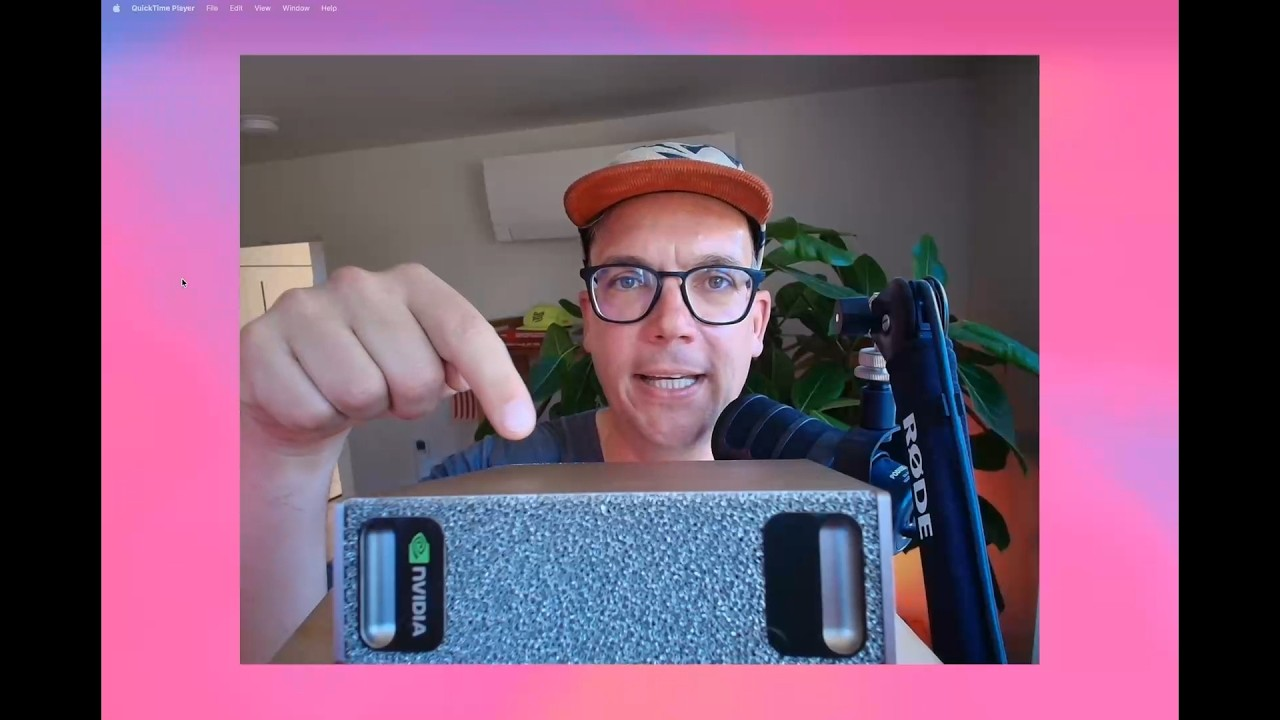
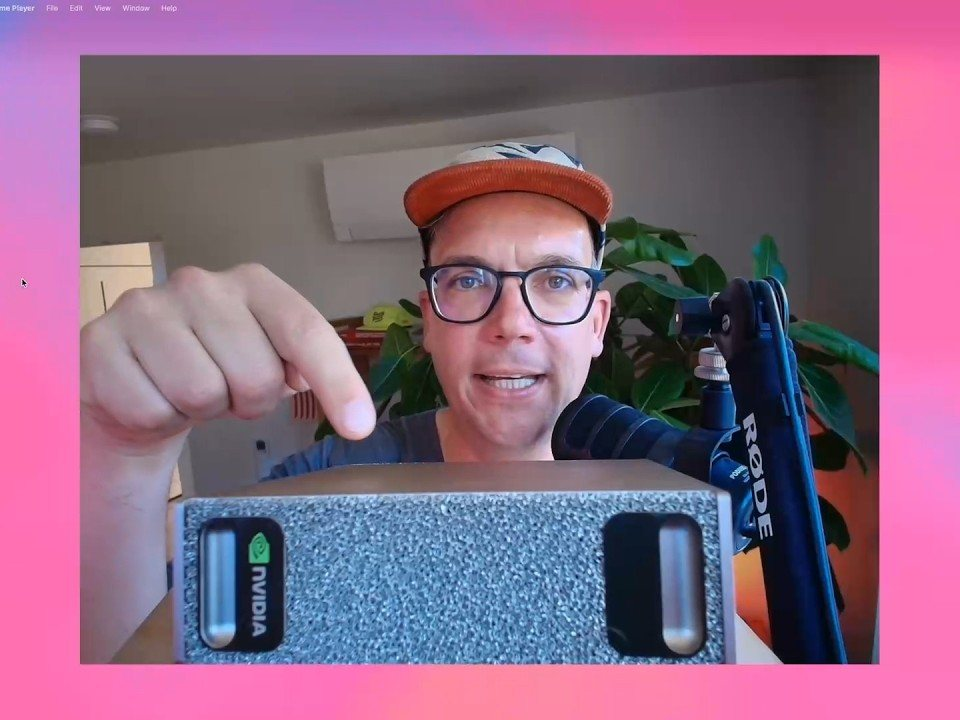
Update DGX Spark blog posts

diff --git a/src/content/blog/ai-prototyping-dgx-spark.md b/src/content/blog/ai-prototyping-dgx-spark.md
@@ -1,29 +1,36 @@
 ---
-title: "AI Prototyping with DGX Spark"
-description: "Developers keep running into the same wall when they try to run modern AI models locally. Laptops throttle, cloud costs sting, and the tooling feels scattered. This session explores what happens when you drop a DGX Spark onto your desk and pair it with the full NVIDIA ecosystem."
+title: "NVIDIA DGX Spark Arrived!"
+description: "I have never been this excited about a computer arriving. NVIDIA DGX Spark is the machine I want to use for local LLM inference, GPU systems learning, benchmarking, RAG experiments, ETL, fine tuning, and local AI infrastructure work."
 pubDate: "Oct 17 2025"
 heroImage: "/dgx-spark-unboxing.jpg"
 ---
 
-Developers keep running into the same wall when they try to run modern AI models locally. Laptops throttle, cloud costs sting, and the tooling feels scattered. This session explores what happens when you drop a DGX Spark onto your desk and pair it with the full NVIDIA ecosystem.
+I do not remember the last time I was this excited about a computer showing up.
 
-We look at why the hardware architecture matters, how CUDA lights up on both transformer inference and high throughput embedding generation, and what real benchmarks say about latency, throughput, and sustained load under proper batching.
+The NVIDIA DGX Spark arrived, and it feels less like unboxing another workstation and more like putting a small AI lab on the desk. I have spent years around software systems, cloud infrastructure, distributed services, and the usual developer machines. This one feels different because it is not just faster hardware. It is an invitation to get closer to the full stack of modern AI systems.
 
-The goal is simple. Show how a small but serious machine can turn local inference from a compromise into a superpower.
+The first thing I want from it is simple: serious local LLM inference. I want to run models locally, measure them properly, understand where latency comes from, and see what changes when the machine is built for this class of work instead of being forced into it.
 
-## Watch the Session
+But the bigger plan is to learn the system underneath the demos.
 
-<iframe width="560" height="315" src="https://www.youtube.com/embed/9uWRz06bku0" title="AI Prototyping with DGX Spark" frameborder="0" allow="accelerometer; autoplay; clipboard-write; encrypted-media; gyroscope; picture-in-picture; web-share" allowfullscreen></iframe>
+I want to use DGX Spark to study NVIDIA's production stacks, GPU internals, and the infrastructure engineering patterns around AI workloads. That means getting hands-on with CUDA behavior, memory pressure, batching, model serving, observability, and the less glamorous parts that decide whether an AI system feels magical or merely expensive.
 
-[Watch on YouTube →](https://www.youtube.com/watch?v=9uWRz06bku0)
+## What I Want To Build And Learn
 
-## Key Topics
+The roadmap is a mix of curiosity and practical systems work:
 
-- **Hardware Architecture** – Why the DGX Spark's design matters for AI workloads
-- **CUDA Performance** – Transformer inference and embedding generation benchmarks
-- **Real-World Testing** – Latency, throughput, and sustained load measurements
-- **Practical Setup** – Getting the NVIDIA ecosystem running smoothly
+- **Local LLM inference:** run useful models close to the developer loop and understand the real tradeoffs
+- **Benchmarking:** measure throughput, latency, batching behavior, and sustained load instead of guessing
+- **RAG experiments:** build retrieval pipelines that can be tested locally with realistic embeddings and model calls
+- **ETL for AI systems:** process, structure, embed, and evaluate data as part of a repeatable pipeline
+- **Fine tuning:** explore where model adaptation makes sense and what the workflow actually costs
+- **GPU internals:** learn how the hardware behaves under pressure, not just what the spec sheet says
+- **Infrastructure system engineering:** treat local AI as a full system with deployment, monitoring, reliability, and iteration loops
 
-## The Bottom Line
+## Why This Matters
 
-Local AI inference doesn't have to mean compromise. With the right hardware and proper configuration, you can have production-grade performance on your desk.
+Cloud AI is incredibly useful, but it can hide too much of the machinery. A local AI machine gives me a place to slow down, instrument things, break them, fix them, and understand the stack from the model call down to the GPU.
+
+That is what makes the DGX Spark exciting to me. It is not just a box with an NVIDIA logo on it. It is a way to make local AI feel real enough for experimentation, deep enough for systems learning, and practical enough to influence how I build production workflows.
+
+I am going to use it to learn in public, test assumptions, and build a sharper intuition for the infrastructure behind modern AI.

diff --git a/src/content/blog/deschutes-tech-guild-ai-prototyping-dgx-spark.md b/src/content/blog/deschutes-tech-guild-ai-prototyping-dgx-spark.md
@@ -1,5 +1,5 @@
 ---
-title: "AI Prototyping on DGX Spark at Deschutes Tech Guild"
+title: "\"AI Prototyping on DGX Spark\" at Deschutes Tech Guild"
 description: "A Deschutes Tech Guild talk about what happens when you bring NVIDIA DGX Spark to local AI prototyping, from CUDA-backed inference to latency, throughput, batching, and practical developer workflows."
 pubDate: "Jan 11 2026"
 heroImage: "/blog/deschutes-tech-guild-dgx-spark-talk.jpeg"
